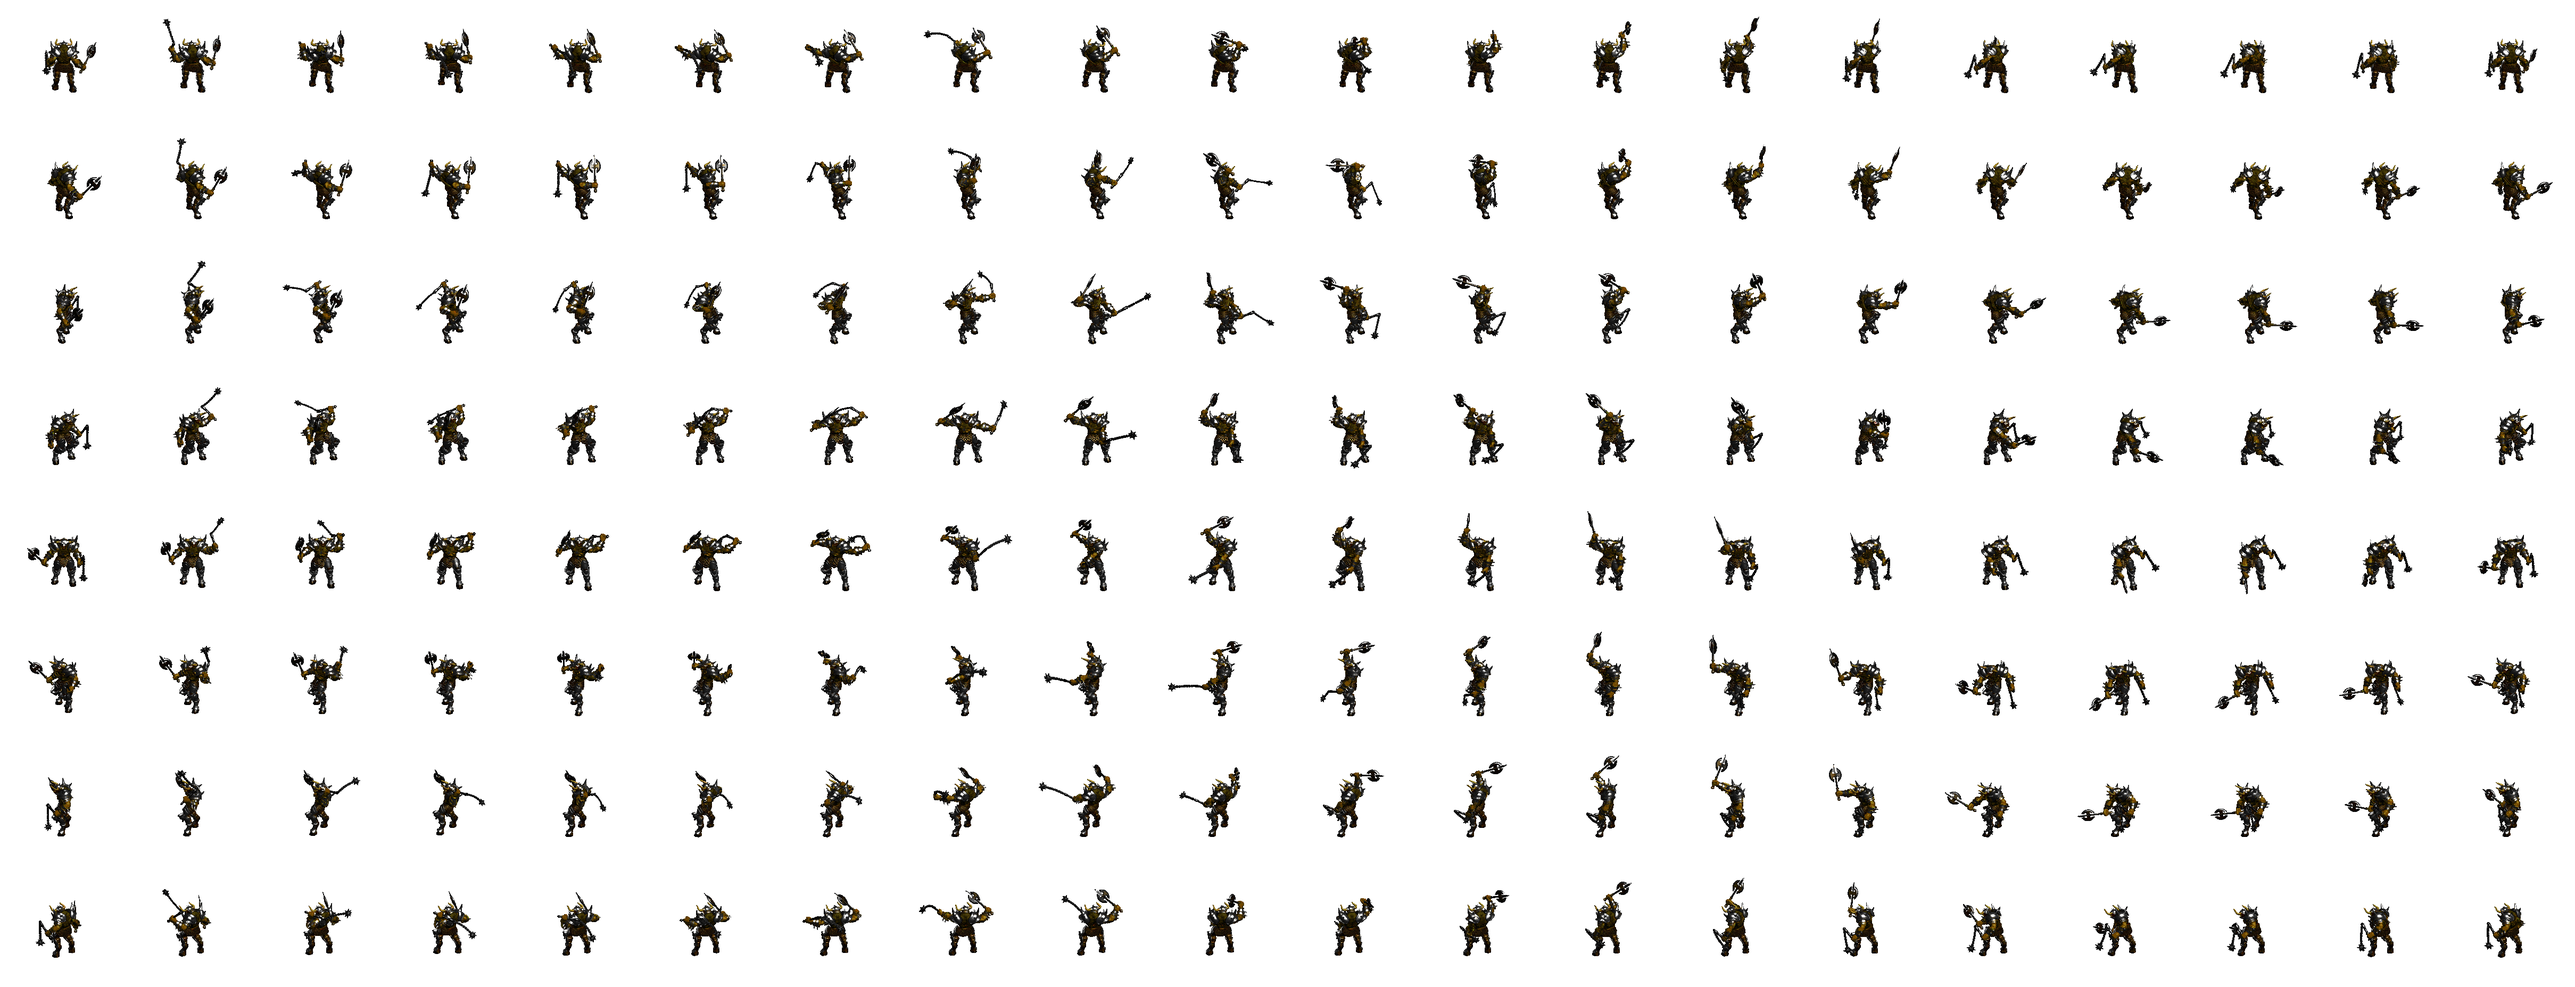
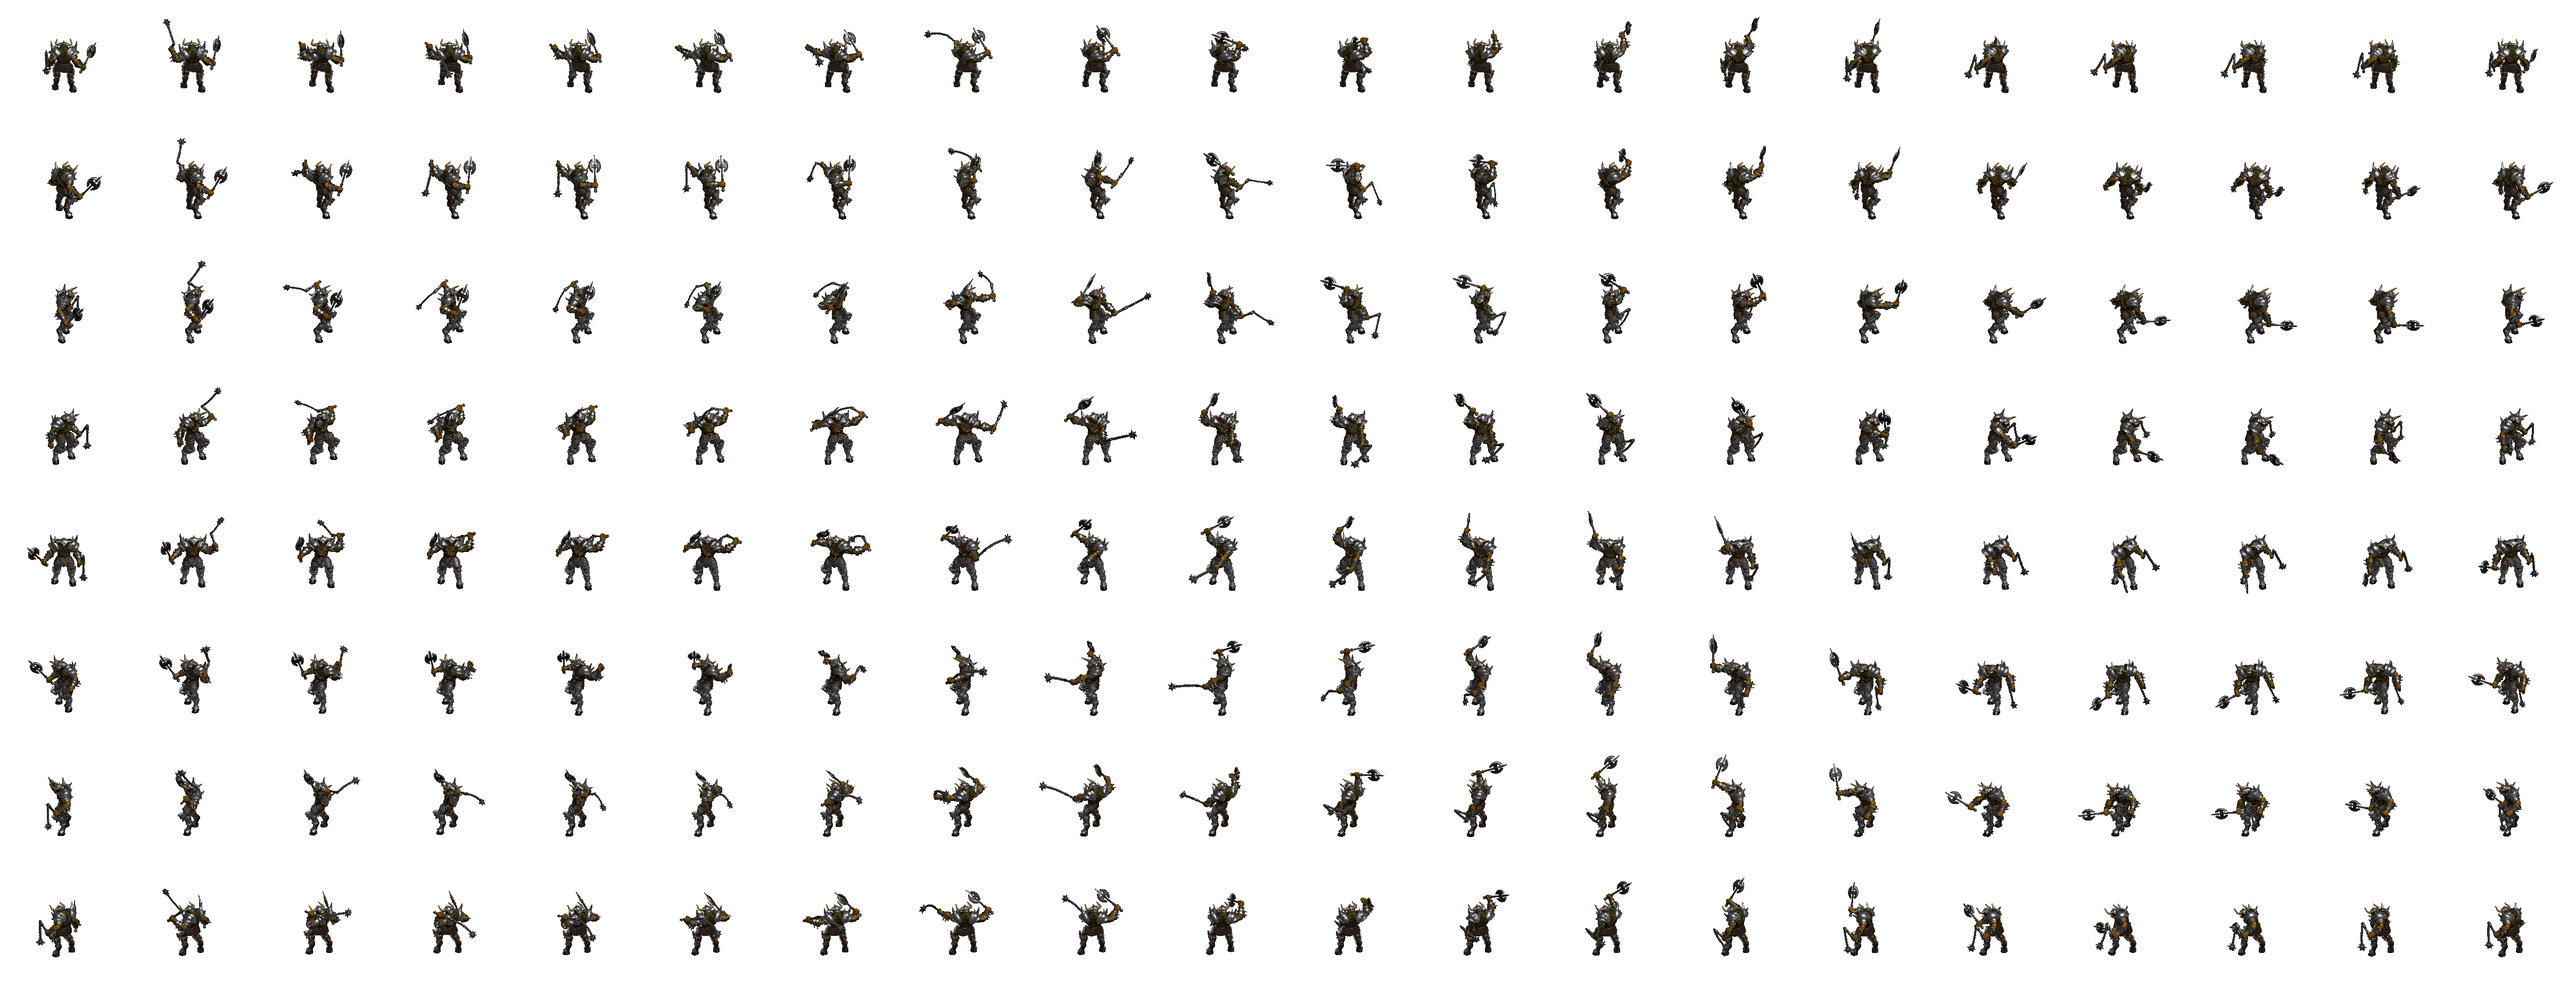
Added necromancer character, refined imageloader for more flexibility

diff --git a/src/tools/image/ImageLoader.java b/src/tools/image/ImageLoader.java
@@ -4,6 +4,7 @@ import src.player.Resource;
 import src.sprites.entities.livingEntities.AnimationComponent;
 import src.sprites.entities.livingEntities.Character;
 import src.sprites.entities.livingEntities.LivingEntityState;
+import src.tools.JsonReader;
 
 import javax.imageio.ImageIO;
 import java.awt.image.BufferedImage;
@@ -41,13 +42,14 @@ public class ImageLoader
     );
 
     final private static Map<Character.CharacterEnum, String> CHARACTER_NAME_MAP = Map.ofEntries(
-            Map.entry(Character.CharacterEnum.ORC, "orc")
+            Map.entry(Character.CharacterEnum.ORC, "orc"),
+            Map.entry(Character.CharacterEnum.NECROMANCER_LIGHT, "necromancer_light")
     );
 
     final private static Map<LivingEntityState, String> STATE_NAME_MAP = Map.ofEntries(
             Map.entry(LivingEntityState.ATTACK1, "attack1"),
             Map.entry(LivingEntityState.ATTACK2, "attack2"),
-            Map.entry(LivingEntityState.RUN, "walk"),
+            Map.entry(LivingEntityState.RUN, "run"),
             Map.entry(LivingEntityState.DEATH, "death"),
             Map.entry(LivingEntityState.DEAD, "dead"),
             Map.entry(LivingEntityState.HIT, "hit"),
@@ -129,8 +131,13 @@ public class ImageLoader
         for (Character.CharacterEnum characterEnum : Character.CharacterEnum.values()) {
             characterAnimations.get(characterEnum);
             Map<LivingEntityState, AnimationComponent> iterCharacterAnimations;
-             iterCharacterAnimations = new EnumMap<>(LivingEntityState.class);
-             characterAnimations.put(characterEnum, iterCharacterAnimations);
+            iterCharacterAnimations = new EnumMap<>(LivingEntityState.class);
+            characterAnimations.put(characterEnum, iterCharacterAnimations);
+
+            Map<?, ?> jsonMap = JsonReader.readJsonCritical(characterEnum);
+
+            int numberOfDirections = 8; //CombatEntity sprites have 8 directions, MapEntity sprites have 16
+            if (characterEnum == Character.CharacterEnum.NECROMANCER_LIGHT) numberOfDirections = 16;
 
             for (LivingEntityState state : LivingEntityState.values()) {
                 String charName = CHARACTER_NAME_MAP.get(characterEnum);
@@ -139,9 +146,12 @@ public class ImageLoader
                 if (imgURL == null) {
                     throw new FileNotFoundException("Could not find resource " + name);
                 }
-                final int numberOfDirections = 8;
+
+                final String animationLengthName = STATE_NAME_MAP.get(state) + "_length";
+                int animationLength = (int) (double) jsonMap.get(animationLengthName);
+
                 AnimationComponent animationComponent = new AnimationComponent(
-                        loadSheet(loadImage(imgURL), 0, numberOfDirections, ANIMATION_LENGTH_MAP.get(state)));
+                        loadSheet(loadImage(imgURL), numberOfDirections, animationLength));
                 iterCharacterAnimations.put(state, animationComponent);
             }
         }
@@ -160,10 +170,10 @@ public class ImageLoader
     /**
      * Loads and returns an image. If the image can't be loaded, a default image will be returned.
      *
-     * @param url
+     * @param url image's path
      *
      * @return image
-     * @throws IOException
+     * @throws IOException image not found
      */
     private static BufferedImage loadImage(URL url) throws IOException {
         return ImageIO.read(url);
@@ -172,17 +182,16 @@ public class ImageLoader
     /**
      * Cuts a sheet into sub images and puts them each into a List<BufferedImage>. This function is used for when
      * many characters share the same image for specific parts of an animation.
-     * @param sheet Sheet to process
-     * @param startRow Row from which it will start taking images from
-     *                 (i.e, start from row index 2, so skip index 0 and 1)
-     * @param endRow Row from which it will stop taking images from
-     *               (i.e, end at index 5, so everything below will be ignored)
+     *
+     * @param sheet       Sheet to process
+     * @param endRow      Row from which it will stop taking images from
+     *                    (i.e, end at index 5, so everything below will be ignored)
      * @param tilesPerRow Amount of sub images per row that are to be extracted
      *                    (i.e 3 characters per row)
      */
-    private List<List<BufferedImage>> loadSheet(BufferedImage sheet, int startRow, int endRow, int tilesPerRow){
+    private List<List<BufferedImage>> loadSheet(BufferedImage sheet, int endRow, int tilesPerRow){
         List<List<BufferedImage>> allDirectionsList = new ArrayList<>();
-        for (int i = 0; i < endRow - startRow; i++) {
+        for (int i = 0; i < endRow; i++) {
             allDirectionsList.add(new ArrayList<>());
         }
 
@@ -192,7 +201,7 @@ public class ImageLoader
         for (int k = 0; k < endRow; k++) {
             for (int i = 0; i < tilesPerRow; i++) {
                 allDirectionsList.get(k).add(sheet.getSubimage(
-                        i * tileWidth, (startRow + k) * tileHeight, tileWidth, tileHeight));
+                        i * tileWidth, (k) * tileHeight, tileWidth, tileHeight));
             }
         }
         return allDirectionsList;

diff --git a/src/sprites/entities/livingEntities/LivingEntity.java b/src/sprites/entities/livingEntities/LivingEntity.java
@@ -4,6 +4,7 @@ import src.Game;
 import src.sprites.entities.Entity;
 import src.sprites.entities.EntityHandler;
 import src.sprites.entities.EntityType;
+import src.tools.JsonReader;
 import src.tools.Rotation;
 import src.tools.WindowFocus;
 import src.player.PlayerTeam;
@@ -17,9 +18,12 @@ import src.tools.time.DeltaTime;
 import javax.swing.*;
 import java.awt.*;
 import java.awt.image.BufferedImage;
+import java.util.Map;
+import java.util.List;
 
 public abstract class LivingEntity extends Entity {
-    protected Character.CharacterEnum character;
+    protected final Character.CharacterEnum character;
+    protected final Vector2D characterOffset;
     protected Animation animation;
     protected boolean alive = true;
     protected PlayerTeam team;
@@ -53,6 +57,11 @@ public abstract class LivingEntity extends Entity {
             case BLUE -> flag = Game.imageLoader.getImage(ImageLoader.ImageName.BLUE_FLAG);
             default -> flag = Game.imageLoader.getImage(ImageLoader.ImageName.ERROR);
         }
+
+        Map<?, ?> jsonMap = JsonReader.readJsonCritical(character);
+        int offset_x = (int) (double) jsonMap.get("character_offset_x");
+        int offset_y = (int) (double) jsonMap.get("character_offset_y");
+        characterOffset = new Vector2D(offset_x, offset_y);
     }
 
     @Override
@@ -174,7 +183,7 @@ public abstract class LivingEntity extends Entity {
 
     @Override
     public void draw(Graphics g, JComponent gc) {
-        Vector2D offsetPosition = Vector2D.getSum(drawPosition, Character.CHARACTER_OFFSET);
+        Vector2D offsetPosition = Vector2D.getSum(drawPosition, characterOffset);
         g.drawImage(getTexture(), (int) offsetPosition.getX(), (int) offsetPosition.getY(), gc);
         drawBanner(g, gc);
     }

diff --git a/src/sprites/entities/livingEntities/AnimationComponent.java b/src/sprites/entities/livingEntities/AnimationComponent.java
@@ -1,5 +1,7 @@
 package src.sprites.entities.livingEntities;
 
+import src.tools.Rotation;
+
 import java.awt.image.BufferedImage;
 import java.util.List;
 
@@ -10,8 +12,19 @@ public class AnimationComponent {
         this.animationFrames = animationFrames;
     }
 
-    public BufferedImage getAnimationFrame(int rotation, int frame) {
-        List<BufferedImage> rotatedAnimation = animationFrames.get(rotation);
+    /**
+     * Returns the image of a certain instance in an animation
+     * @param rotation Which direction the character is facing
+     * @param frame Which stage of the animation the character is currently in
+     * @return The image of a certain rotation in a certain stage of the animation.
+     */
+    public BufferedImage getAnimationFrame(Rotation rotation, int frame) {
+        double radiansPerIndex = Math.PI * 2 / animationFrames.size();
+        double rotationRadians = rotation.getRadians();
+        double excessRadians = rotationRadians % radiansPerIndex;
+        int rotationIndex = (int)((rotationRadians - excessRadians) / radiansPerIndex);
+
+        List<BufferedImage> rotatedAnimation = animationFrames.get(rotationIndex);
         int translatedFrame = frame % rotatedAnimation.size();
         return rotatedAnimation.get(translatedFrame);
     }

diff --git a/src/map/GameMap.java b/src/map/GameMap.java
@@ -72,7 +72,7 @@ public class GameMap implements GameKeyListener {
         mapEntityHandler.add(new CollectableMapEntity(new Vector2D(15, 12), Resource.GOLD, mapEntityHandler));
         mapEntityHandler.add(new CollectableMapEntity(new Vector2D(18, 12), Resource.WOOD, mapEntityHandler));
         mapEntityHandler.add(new CollectableMapEntity(new Vector2D(21, 12), Resource.ORE, mapEntityHandler));
-        mapEntityHandler.add(new MapLivingEntity(new Vector2D(10,18), Character.CharacterEnum.ORC, game, playerTeamList.get(0), mapEntityHandler));
+        mapEntityHandler.add(new MapLivingEntity(new Vector2D(10,18), Character.CharacterEnum.NECROMANCER_LIGHT, game, playerTeamList.get(0), mapEntityHandler));
         mapEntityHandler.add(new MapLivingEntity(new Vector2D(14,18), Character.CharacterEnum.ORC, game, playerTeamList.get(1), mapEntityHandler));
     }
 

diff --git a/src/sprites/entities/livingEntities/Animation.java b/src/sprites/entities/livingEntities/Animation.java
@@ -49,11 +49,7 @@ public class Animation {
     }
 
     public BufferedImage getAnimationFrame(Rotation rotation){
-        double radiansPerIndex = Math.PI / 4;
-        double rotationRadians = rotation.getRadians();
-        double excessRadians = rotationRadians % radiansPerIndex;
-        int rotationIndex = (int)((rotationRadians - excessRadians) / radiansPerIndex);
-        return stateAnimations.get(entityState).getAnimationFrame(rotationIndex, currentFrame);
+        return stateAnimations.get(entityState).getAnimationFrame(rotation, currentFrame);
     }
 
     public LivingEntityState getEntityState() {

diff --git a/src/tools/JsonReader.java b/src/tools/JsonReader.java
@@ -20,12 +20,8 @@ public class JsonReader
 {
     private static final Logger LOGGER = Logger.getLogger("");
 
-    private static final Map<Character.CharacterEnum, String> CHARACTER_MAP = Map.ofEntries(
-            Map.entry(Character.CharacterEnum.ORC, "orc")
-            );
-
     public static Map<?, ?> readJson(Character.CharacterEnum character) throws IOException {
-        String fileName = CHARACTER_MAP.get(character);
+        String fileName = character.toString().toLowerCase();
 
         Gson gson = new Gson();
 

diff --git a/src/sprites/entities/livingEntities/CombatLivingEntity.java b/src/sprites/entities/livingEntities/CombatLivingEntity.java
@@ -99,7 +99,7 @@ public class CombatLivingEntity extends LivingEntity {
         final int bannerHeight = bannerWidth / 2;
 
         final int bannerOffsetY = - (int)(tileSize * 0.5);
-        final int bannerOffsetX = (int)((size.getX() * tileSize  - bannerWidth)* 0.5);
+        final int bannerOffsetX = (int)((size.getX() * tileSize  - bannerWidth) * 0.5);
         final int drawX = (int)(drawPosition.getX() + bannerOffsetX);
         final int drawY = (int)(drawPosition.getY() + bannerOffsetY);
 

diff --git a/src/sprites/entities/livingEntities/MapLivingEntity.java b/src/sprites/entities/livingEntities/MapLivingEntity.java
@@ -39,6 +39,12 @@ public class MapLivingEntity extends LivingEntity {
     }
 
     @Override
+    protected void updateRotation(Vector2D direction){
+        super.updateRotation(direction);
+        this.rotation.addRadians(Math.PI);
+    }
+
+    @Override
     public boolean onMouseClick3(PathMap map, PathFinder finder, Vector2D mouseMapPos) {
         boolean result = super.onMouseClick3(map, finder, mouseMapPos);
         if (path != null && !path.equals(queuedPath)) {

diff --git a/src/sprites/entities/livingEntities/Character.java b/src/sprites/entities/livingEntities/Character.java
@@ -8,10 +8,9 @@ public class Character {
      * Sprites are not the same distance from the top left corner due to the structure of the sprite sheets.
      * This is to offset the sprites "back" to the top left corner.
      */
-    public static Vector2D CHARACTER_OFFSET = new Vector2D(-83, -85);
 
     public enum CharacterEnum
     {
-        ORC
+        ORC, NECROMANCER_LIGHT
     }
 }
